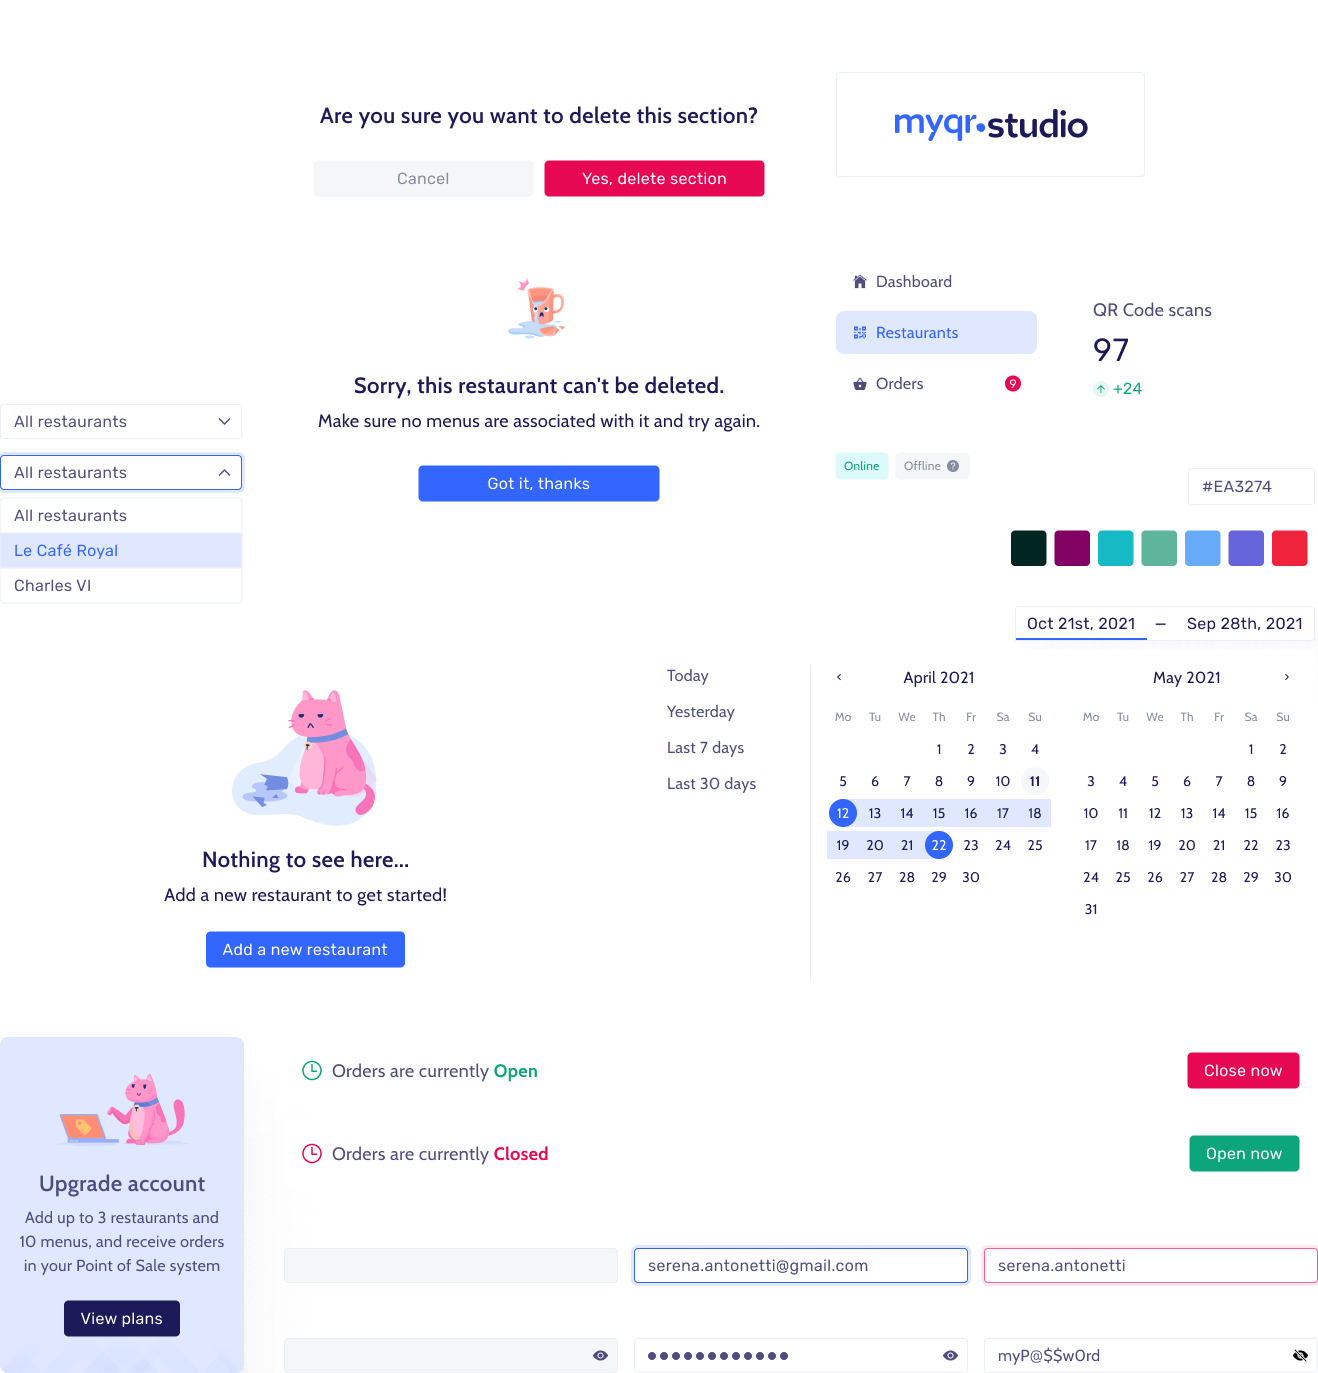
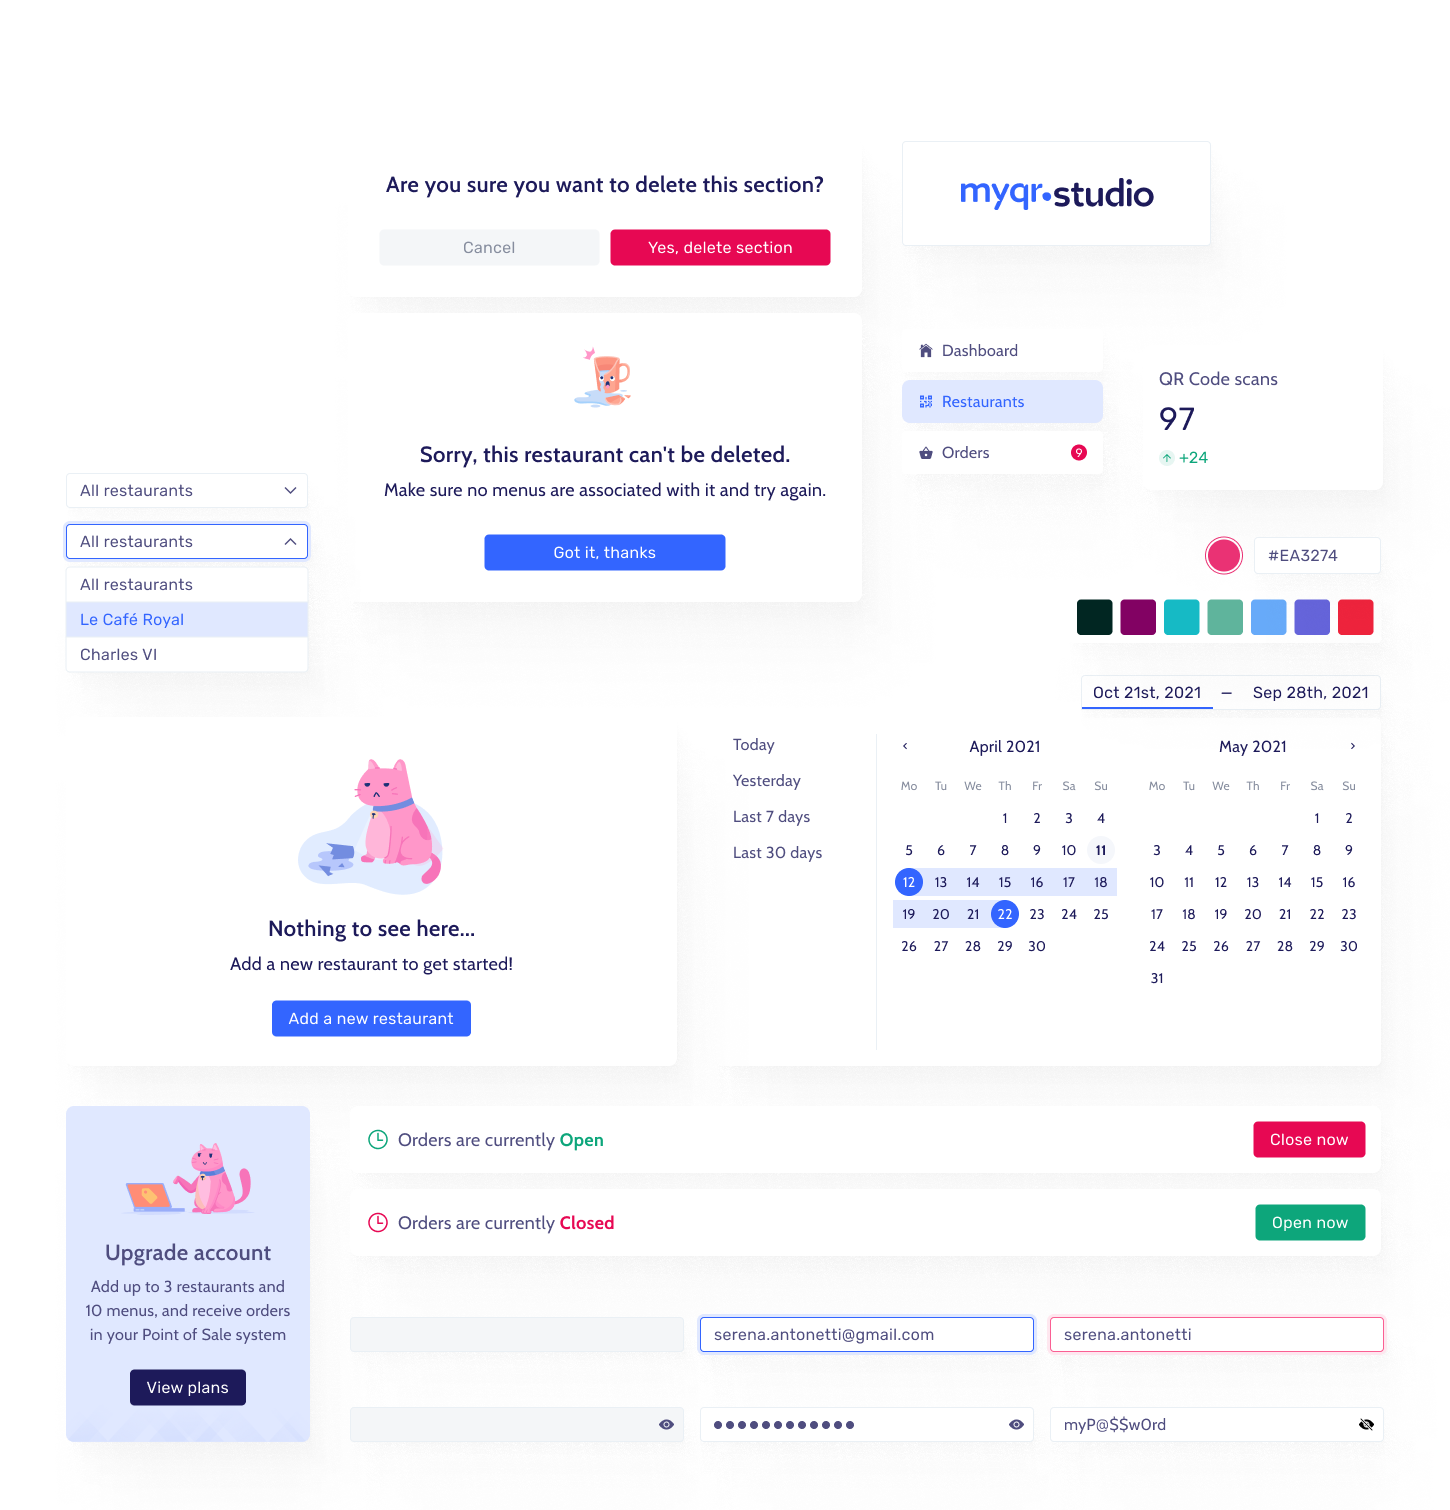
[bugfix] add image shadow to UI kit PNG to fix framer-motion bug with CSS filter

diff --git a/src/CaseStudy/sections/Accessibility/PrefersReducedMotion/PrefersReducedMotion.scss b/src/CaseStudy/sections/Accessibility/PrefersReducedMotion/PrefersReducedMotion.scss
@@ -64,8 +64,9 @@
 }
 
 .accessibility-prefersReducedMotion-preview {
+  position: relative;
   width: var(--preview-size);
-  aspect-ratio: 1/1;
+  padding-bottom: 100%;
   background-color: var(--myqr-bg-light);
   border: 4px solid var(--white);
   border-radius: 8px;
@@ -73,10 +74,17 @@
   display: flex;
   align-items: center;
   justify-content: center;
-  padding: 40px;
+  padding: 0 0 100% 0;
+
+  & > * {
+    position: absolute;
+    top: 50%;
+    left: 50%;
+    transform: translate(-50%, -50%);
+  }
 
   .accessibility-prefersReducedMotion-preview-img {
-    max-width: 100%;
+    max-width: calc(100% - 8rem);
     height: auto;
     border-radius: 8px;
     filter: var(--myqr-img-shadow);
@@ -148,22 +156,22 @@ code {
 @keyframes modalAnimationEnabled {
   0% {
     opacity: 1;
-    transform: translate(0, 0);
+    transform: translate(-50%, -50%);
   }
   70% {
     opacity: 1;
-    transform: translate(0, 0);
+    transform: translate(-50%, -50%);
   }
   80% {
     opacity: 0;
-    transform: translate(0, -20%);
+    transform: translate(-50%, -70%);
   }
   90% {
     opacity: 0;
-    transform: translate(0, 20%);
+    transform: translate(-50%, -30%);
   }
   100% {
     opacity: 1;
-    transform: translate(0, 0);
+    transform: translate(-50%, -50%);
   }
 }

diff --git a/src/CaseStudy/sections/DesignSystems/UIKit/UIKit.scss b/src/CaseStudy/sections/DesignSystems/UIKit/UIKit.scss
@@ -1,23 +1,17 @@
-.imgContainer-uiKit {
+.imgWrapper-uiKit {
+  position: relative;
+
   img {
     width: var(--max-text-width);
-  }
+    height: auto;
 
-  .imgWrapper-uiKit {
-    position: relative;
-
-    img {
-      width: var(--max-text-width);
-      height: auto;
-
-      &:first-of-type {
-        filter: var(--myqr-img-shadow);
-      }
-
-      &:nth-of-type(n + 2) {
-        position: absolute;
-        inset: 0;
-      }
+    &:first-of-type {
+      /* Image shadows don't work well with framer-motion
+      so we need to add the shadows on the PNG itself then scale */
+      position: absolute;
+      inset: 0;
+      transform: scale(calc(1450 / 1318));
+      transform-origin: center center;
     }
   }
 }

diff --git a/src/CaseStudy/components/Image/FullScreenImageContainer/FullScreenImageContainer.scss b/src/CaseStudy/components/Image/FullScreenImageContainer/FullScreenImageContainer.scss
@@ -35,9 +35,13 @@
     }
   }
 }
-.caseStudyPage-bg:not(.caseStudyPage-bg[data-theme="dark"]) {
-  & ~ .caseStudyPage .imgContainer-isFullScreen[data-bg="dark"] {
-    background-color: #00003c;
+
+.caseStudyPage-bg {
+  &[data-theme="none"],
+  &[data-theme="light"] {
+    & ~ .caseStudyPage .imgContainer-isFullScreen[data-bg="dark"] {
+      background-color: #00003c;
+    }
   }
 }
 

diff --git a/src/CaseStudy/components/PageBackground/PageBackground.tsx b/src/CaseStudy/components/PageBackground/PageBackground.tsx
@@ -69,6 +69,7 @@ const PageBackground = () => {
   return (
     <motion.div
       className="caseStudyPage-bg"
+      initial={{ backgroundColor: "#ffffff" }}
       animate={{ backgroundColor: getBackgroundColorForCurrentRoute() }}
       transition={{ duration: 0.3 }}
       data-theme={getBackgroundNameForCurrentRoute()}

diff --git a/src/CaseStudy/sections/Accessibility/ColorPalette/ColorPalette.scss b/src/CaseStudy/sections/Accessibility/ColorPalette/ColorPalette.scss
@@ -121,7 +121,7 @@
 
 .colorPalette-color-hex {
   width: 100%;
-  aspect-ratio: 1 / 1;
+  padding-bottom: 100%;
   position: relative;
   transition: all 300ms ease-in-out;
 
